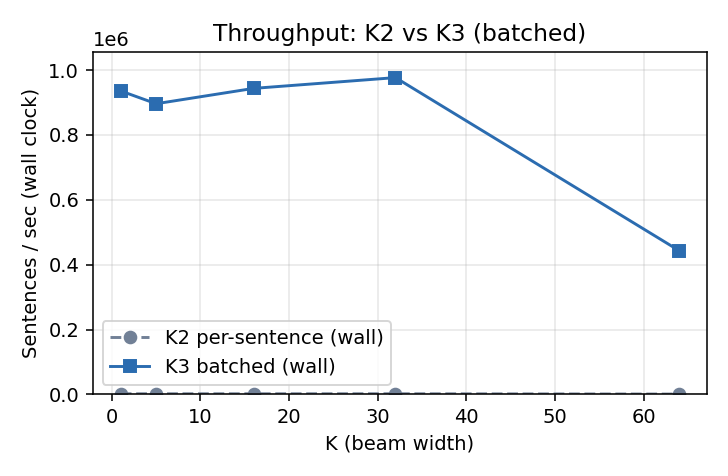
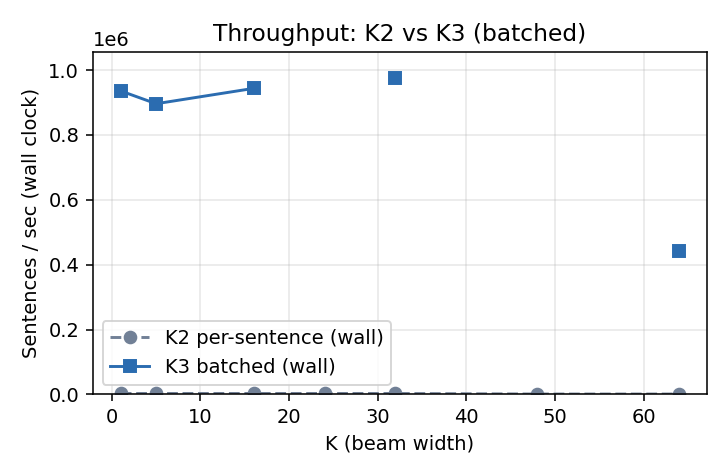
changes

diff --git a/cushr_gpu/KBEST_BENCHMARK.md b/cushr_gpu/KBEST_BENCHMARK.md
@@ -2,28 +2,32 @@
 
 Warp-level k-best merge kernel (`kbest_merge_level`) benchmarked over the SIGHUM dataset. Kernel-only timing uses CUDA events around each per-level merge launch (no H2D / reconstruction overhead). Correctness is checked against the Week-3 CPU `TopKDecoder` at the same K.
 
-**Correctness:** SCORE-EQUIVALENT to CPU at every K (checked 119503 sentences per K).
+**Correctness:** SCORE-EQUIVALENT to CPU at every K (checked sentence count not recorded in this CSV).
 
 ## Throughput and memory vs K
 
 | K | sent/sec (kernel) | µs/sent (kernel) | µs/sent (loop) | table MB | used MB |
 |---|------------------:|-----------------:|---------------:|---------:|--------:|
-| 1 | 2730 | 366.3 | 496.4 | 68.5 | 72.0 |
-| 5 | 2698 | 370.7 | 499.9 | 273.9 | 276.0 |
-| 16 | 2730 | 366.3 | 495.7 | 838.9 | 840.0 |
-| 32 | 2775 | 360.4 | 489.3 | 1660.7 | 1662.0 |
-| 64 | 1210 | 826.6 | 954.3 | 3304.3 | 3306.0 |
+| 1 | 4698 | 212.8 | 341.0 | 68.5 | 72.0 |
+| 5 | 4674 | 213.9 | 342.4 | 273.9 | 276.0 |
+| 16 | 4653 | 214.9 | 343.0 | 838.9 | 840.0 |
+| 24 | 4647 | 215.2 | 343.9 | 1249.8 | 1254.0 |
+| 32 | 4655 | 214.8 | 342.3 | 1660.7 | 1662.0 |
+| 48 | 1394 | 717.3 | 845.6 | 2482.5 | 2484.0 |
+| 64 | 1396 | 716.4 | 844.3 | 3304.3 | 3306.0 |
 
 ## Top-K recall vs gold
 
-Measured over the 59092 sentences that carry a resolved gold path (~50% of the corpus).
+Measured over the 59092 checked sentences that carry a resolved gold path.
 
 | K | recall@K |
 |---|---------:|
 | 1 | 0.0831 |
 | 5 | 0.1663 |
 | 16 | 0.2529 |
+| 24 | 0.2892 |
 | 32 | 0.3104 |
+| 48 | 0.3452 |
 | 64 | 0.3679 |
 
 ![Top-K recall vs K](recall_vs_k.png)
@@ -38,50 +42,3 @@ Measured over the 59092 sentences that carry a resolved gold path (~50% of the c
 | 64 | 4.5 | 0.0 | wait (3.31); long_scoreboard (1.26) |
 
 _Occupancy = `sm__warps_active` % of peak; DRAM % = `dram__throughput` % of peak sustained. Stall values are avg warps stalled per active cycle for that reason._
-
-> **Note:** These are the frozen Week-7 per-sentence (K2) numbers. The Week-8 batched (K3+K5) results are kept **separately** in `BATCHED_BENCHMARK.md` so the two can be compared side by side — this file is never overwritten by the batched benchmark.
-
-## Register / spill / occupancy tuning (`kbest_merge_level`)
-
-The merge kernel is **latency-bound** (DRAM ~0%, dominant stalls are `long_scoreboard`
-and `wait`), so resident-warp count — i.e. occupancy — is the primary lever for hiding
-latency. The candidate arrays `s[]`/`pn[]`/`pr[]` are per-lane register arrays whose size
-scales with `slots_per_lane = 2*max/32` (K=32 → 2 slots, K=64 → 4 slots). This makes the
-register/spill/occupancy trade behave very differently for the two instantiations.
-
-Measured on A100 / sm_80, block = 256 threads (8 warps), `nvcc -Xptxas -v`:
-
-| variant | K=32 regs / spill | K=64 regs / spill | K=64 theoretical occ |
-|---|---|---|---|
-| baseline (branchy, no unroll) | 41 / 48 B spill | **30 / 48 B spill** | **100%** |
-| branchless compare-exchange | 39 / 0 | 61 / 0 | 50% |
-| `#pragma unroll` both loops | 38 / 0 | 79 / 0 | 37.5% |
-| **final (per-K unroll, below)** | **38 / 0** | **30 / 48 B spill** | **100%** |
-
-**Findings:**
-
-- **K=32 — unroll + bitwise comparator is a clean win.** Full-unrolling the bitonic
-  loops makes every array index a compile-time constant, so the candidate arrays stay in
-  registers: **38 regs, 0 spills** (down from 41 regs + a 48 B spill). The bitwise
-  comparator (`better()` with `|`/`&` instead of short-circuit `||`/`&&`) collapses the
-  merge-body branches (PTX `bra` 148 → ~35) and is register-neutral. Kept.
-
-- **K=64 — leave it at the baseline.** Every attempt to remove the 48 B spill made it
-  worse: eliminating the spill forces the 4-slot working set entirely into registers
-  (branchless → 61 regs / 50% occ; unroll → 79 regs / 37.5% occ). For a latency-bound
-  kernel that is a bad trade — the 48 B spill is small and L1-cached, and the baseline's
-  100% occupancy already hides that latency. **The original 30 regs / 48 B spill / 100%
-  occupancy is the best state for K=64.**
-
-- The Nsight data shows **K=32 is the faster, better-occupied kernel**; K=64's larger
-  per-lane working set is a structural limit, not something micro-optimization fixes.
-
-**Implementation.** The unroll is gated on the template size so K=32 gets full unrolling
-while K=64 stays non-unrolled (branchy, 30 regs):
-
-```cuda
-#pragma unroll (max <= 32 ? 32 : 1)   // full unroll for K<=32, factor 1 = no unroll for K=64
-```
-
-applied to all three bitonic-merge loops. The bitwise `better()` comparator is kept for
-both instantiations (register-neutral, fewer branches).

diff --git a/cushr_gpu/COMPARISON.md b/cushr_gpu/COMPARISON.md
@@ -6,11 +6,13 @@ Auto-generated by `compare_k2_k3.py`. Leads with **wall-clock** throughput, beca
 
 | K | K2 wall µs/sent | K3 wall µs/sent | **wall speedup** | K2 sent/sec (wall) | K3 sent/sec (wall) |
 |---|----------------:|----------------:|-----------------:|-------------------:|-------------------:|
-| 1 | 496.4 | 1.1 | 464.4x | 2015 | 935454 |
-| 5 | 499.9 | 1.1 | 448.0x | 2000 | 896057 |
-| 16 | 495.7 | 1.1 | 467.6x | 2017 | 943396 |
-| 32 | 489.3 | 1.0 | 477.8x | 2044 | 976562 |
-| 64 | 954.3 | 2.3 | 423.0x | 1048 | 443262 |
+| 1 | 341.0 | 1.1 | 319.0x | 2933 | 935454 |
+| 5 | 342.4 | 1.1 | 306.8x | 2921 | 896057 |
+| 16 | 343.0 | 1.1 | 323.6x | 2915 | 943396 |
+| 24 | 343.9 | — | — | 2908 | — |
+| 32 | 342.3 | 1.0 | 334.2x | 2922 | 976562 |
+| 48 | 845.6 | — | — | 1183 | — |
+| 64 | 844.3 | 2.3 | 374.2x | 1184 | 443262 |
 
 ## Throughput — kernel only (occupancy win)
 
@@ -18,11 +20,13 @@ Total merge *work* is identical, but K2 launches one tiny grid per sentence (Wee
 
 | K | K2 kernel µs/sent | K3 kernel µs/sent | kernel speedup |
 |---|------------------:|------------------:|---------------:|
-| 1 | 366.3 | 1.1 | 342.99x |
-| 5 | 370.7 | 1.1 | 332.73x |
-| 16 | 366.3 | 1.1 | 345.90x |
-| 32 | 360.4 | 1.0 | 352.29x |
-| 64 | 826.6 | 2.3 | 366.75x |
+| 1 | 212.8 | 1.1 | 199.28x |
+| 5 | 213.9 | 1.1 | 192.05x |
+| 16 | 214.9 | 1.1 | 202.95x |
+| 24 | 215.2 | — | — |
+| 32 | 214.8 | 1.0 | 210.00x |
+| 48 | 717.3 | — | — |
+| 64 | 716.4 | 2.3 | 317.83x |
 
 ## Memory — fixed full-corpus (K2) vs chunked (K3)
 
@@ -33,7 +37,9 @@ K2 always allocates the whole-corpus top-K table. K3's `--batch N` sizes the tab
 | 1 | 72.0 | 72.0 | 68.5 | 68.5 |
 | 5 | 276.0 | 276.0 | 273.9 | 273.9 |
 | 16 | 840.0 | 840.0 | 838.9 | 838.9 |
+| 24 | 1254.0 | — | 1249.8 | — |
 | 32 | 1662.0 | 1662.0 | 1660.7 | 1660.7 |
+| 48 | 2484.0 | — | 2482.5 | — |
 | 64 | 3306.0 | 3306.0 | 3304.3 | 3304.3 |
 
 ### Memory vs batch size (K3, K=32)
